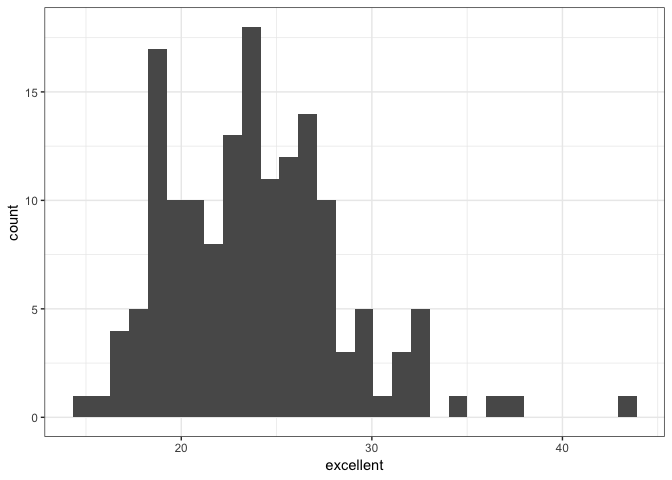
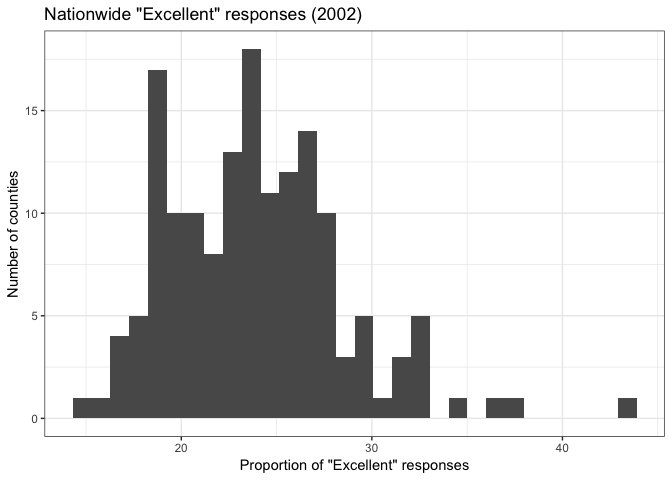
Added plots for problem 3.

diff --git a/p8105_hw2_amv2187.md b/p8105_hw2_amv2187.md
@@ -268,10 +268,16 @@ most_common_state = Modes(brfss_cleaned$locationabbr)
 In 2002, the median proportion "Excellent" responses was 23.6.
 
 ``` r
+# Histogram of "Excellent" responses in 2002
 brfss_cleaned %>%
   filter(year == 2002) %>%
   ggplot(., aes(x = excellent)) +
   geom_histogram() +
+  labs(
+    title = 'Nationwide "Excellent" responses (2002)',
+    y = 'Number of counties',
+    x = 'Proportion of "Excellent" responses'
+  ) +
   theme_bw()
 ```
 
@@ -280,3 +286,25 @@ brfss_cleaned %>%
     ## Warning: Removed 2 rows containing non-finite values (stat_bin).
 
 ![](p8105_hw2_amv2187_files/figure-markdown_github/unnamed-chunk-7-1.png)
+
+``` r
+# Scatterplot of "Excellent" responses in New York and Queens counties 2002-2010
+brfss_cleaned %>%
+  filter(grepl('New York County|Queens County', locationdesc) == T) %>%
+  ggplot(., aes(x = year, y = excellent, color = locationdesc)) +
+  geom_point() +
+  geom_smooth(method = 'loess', se = F) +
+  labs(
+    title = 'Proportion of "Excellent" responses 2002-2010',
+    y = 'Proportion of "Excellent" responses',
+    x = 'Year'
+  ) +
+  viridis::scale_color_viridis(
+    name = "Location",
+    discrete = TRUE
+  ) +
+  theme_bw() +
+  theme(legend.position = "bottom")
+```
+
+![](p8105_hw2_amv2187_files/figure-markdown_github/unnamed-chunk-7-2.png)
